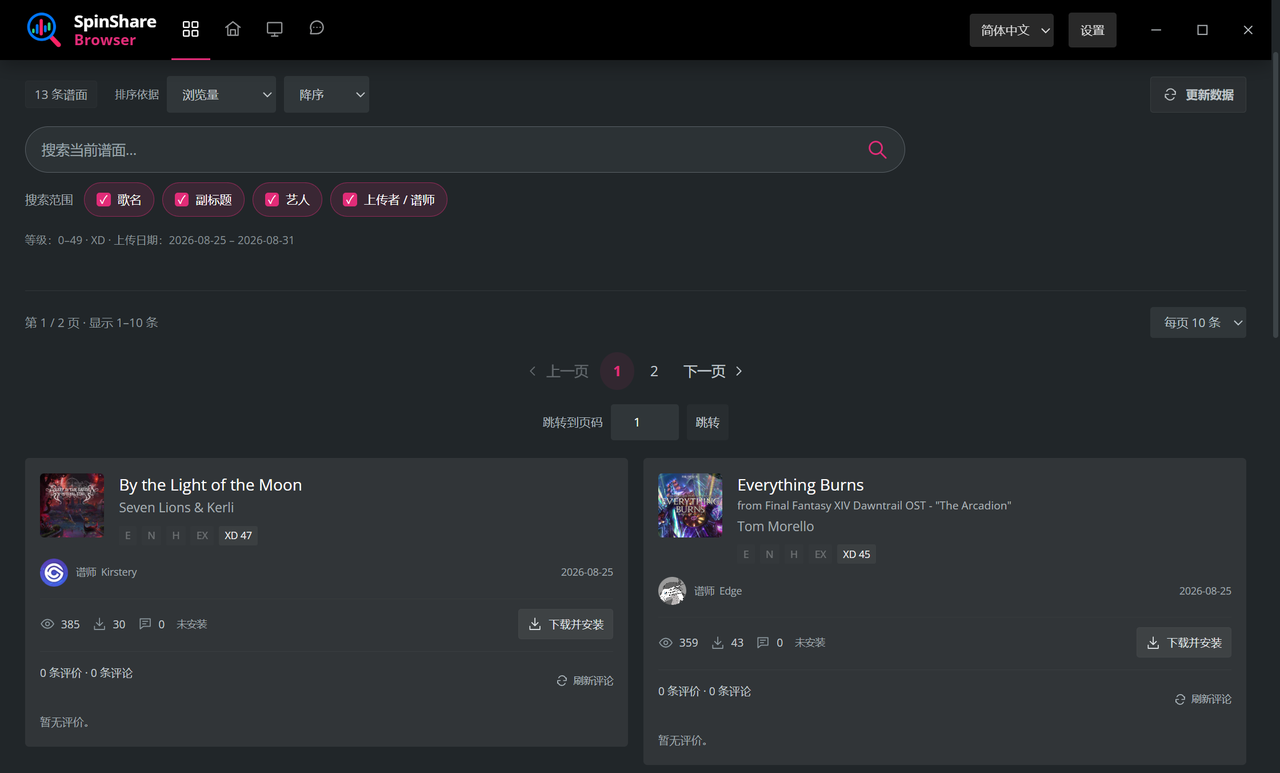
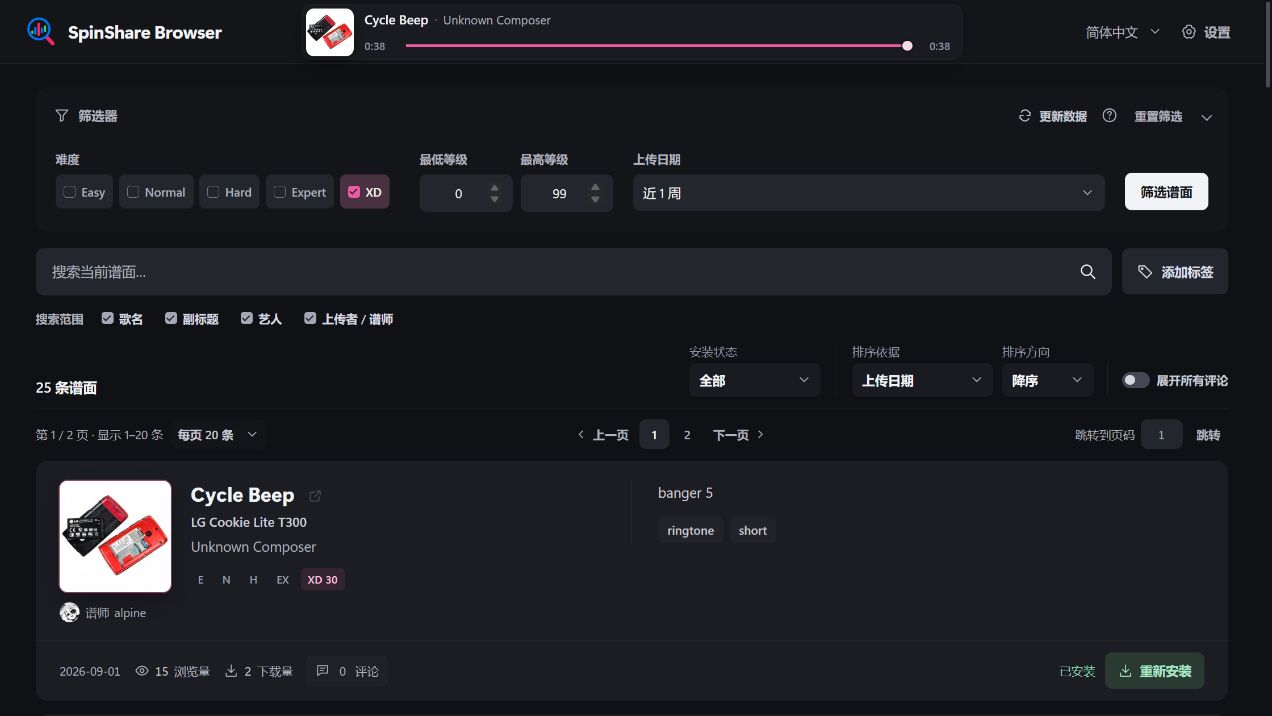
docs: prepare 2.0.0 release

diff --git a/scripts/build.py b/scripts/build.py
@@ -20,7 +20,7 @@ VERSION = "2.0.0"
 SOURCE_DATE_EPOCH = "1788048000"
 WEB_FILES = ("web/index.html", "web/interface.css", "web/chart-card.js", "web/app.js", "web/locales.json")
 SOURCE_FILES = (
-    ".gitattributes", ".gitignore", "LICENSE", "README.md", "README.zh-CN.md",
+    ".gitattributes", ".gitignore", "LICENSE", "README.md", "README.zh-CN.md", "CHANGELOG.md",
     "PRODUCT.md", "DESIGN.md",
     "requirements-build.txt", "src/installer.py", "src/spinshare_portable.py",
     "src/desktop.py", "src/maintenance.py",

diff --git a/PRODUCT.md b/PRODUCT.md
@@ -16,7 +16,7 @@ web
 
 ## Operating Context
 
-Python 提供本地服务和下载安装功能，WebView2 承载 HTML/CSS/JavaScript 界面。现有中英文界面、窗口控制、设置和本地安全策略需要保留。用户在 2026-09-01 同意先实现一张代表性卡片及整页的可交互新界面，再审核后逐步替换；无需重新选择框架。
+Python 提供本地服务和下载安装功能，WebView2 承载 HTML/CSS/JavaScript 界面。2.0.0 已确立为当前正式产品基线；现有中英文界面、窗口控制、设置、本地安全策略和完整交互均在这套架构中继续维护，无需重新选择框架。
 
 ## Capabilities and Constraints
 
@@ -25,14 +25,15 @@ Python 提供本地服务和下载安装功能，WebView2 承载 HTML/CSS/JavaSc
 - 播放器采用谱面包中的完整歌曲音频和媒体实际时长，不做人为试听截断。顶栏播放器显示较大封面、歌名与艺人、当前时间、总时间和可拖动进度，不显示难度。已有曲目时，Space 全局切换播放 / 暂停，左右方向键分别后退 / 快进 5 秒；编辑输入及具有原生键盘行为的控件优先。没有当前曲目时不拦截这些按键，也不根据悬停谱面推断要播放的内容。首次点击播放时会显示一次性快捷键提示。空格确实改变播放状态时，顶栏封面短暂显示新的播放 / 暂停状态后自行淡出；等待、拒绝、重复键或其它没有实际改变媒体状态的情况不显示反馈，进度条也不因全局快捷键保留焦点框。
 - 界面不使用 HTML `title` 或等价的原生悬停小字提示。图标按钮和省略内容仍保留明确的可见状态与 `aria-label` / `aria-description`，不能用取消悬停提示为由删掉无障碍名称；用户明确要求的标签完整列表、评论和描述阅读浮层不属于原生 tooltip。
 - 音频地址只能由通过严格校验的 `fileReference` 拼接为 `https://spinshare.b-cdn.net/uploads/audio/{fileReference}_0.ogg` 或 `.mp3`，不得读取曲目详情、下载或其它计数接口。OGG 失败或 15 秒内未就绪时只回退一次 MP3；MP3 同样受 15 秒加载边界约束，失败后停在可重试状态，不能循环切换格式。
-- 筛选、文字搜索、标签、排序和翻页保留当前播放；全量目录更新若发现曲目、`fileReference` 或媒体版本身份已变化，则释放旧媒体。页面或宿主隐藏时暂停，恢复可见后不自动续播；退出与页面卸载时停止并释放音频、监听器和计时器。播放器与封面切换使用统一短动效，顶栏双封面槽位交叉淡化；减少运动偏好取消空间位移和缩放。
-- 全量目录及前台、后台状态持久保存在应用状态目录的 `charts-cache.json`，默认位于 `%LOCALAPPDATA%\SpinShareBrowser`，与程序安装目录和谱面目标目录独立，正常完全退出后保留。前台手动更新完成 DNS、TCP 与 TLS 连接后、发送目录请求前，必须先持久保存本次请求及十分钟冷却；写入失败不得联网。明确的 401／403 访问拒绝在安全回滚该记录后不占冷却；限流、服务器异常、等待响应超时、请求或正文中断、响应过大／无效及最终落盘失败均保留冷却，重开窗口或进程不能绕过。只有确认请求尚未到达服务器的连接阶段失败、本机预检失败，以及已成功回滚的访问拒绝允许立即重试。旧缓存格式没有失败成本分类，升级时必须保守迁移。新目录先原子落盘、成功后再发布；写失败不能以仅存在于内存的新数据冒充已保存目录。
-- 筛选、文字搜索、标签、排序和翻页严格读取本地目录，不因操作本身访问 SpinShare。没有本地目录或最近一次成功 `fetchedAt` 已超过 12 小时时，启动流程先执行一次自动同步；运行期间达到 12 小时也以单任务、低优先级在后台同步。自动通道不写前台十分钟冷却，使用独立持久退避（5 分钟、15 分钟、1 小时、6 小时）；退避只限制自动任务，用户在错误卡片中主动“重试”仍作为前台手动请求处理。前台冷却尚未结束时，自动任务不得成为绕过限制的后门。
-- 启动自动同步期间用中央聚焦卡片阻止进入旧状态，显示真实阶段和已接收数据量；成功后自动退场。失败但有旧目录时提供“重试”和“使用本地数据”，没有目录时提供“重试”和“退出”。运行期间的后台同步不改变当前筛选或阻塞本地操作；托盘且无前台窗口时，实际更新或失败使用不抢焦点的右下角轻提示，数据未变化则保持安静。手动“更新数据”保留十分钟规则，并在旁边解释 12 小时自动同步，因此多数情况下无需手动操作。
-- 更新失败必须区分网络不可达、访问拒绝、限流、服务器异常、请求／传输超时或中断、响应过大／无效与本地存储故障。只有能够确认几乎没有占用服务器资源的前台失败允许立即再次联网；请求已发送、可能到达服务器或已开始返回全量数据时，前台十分钟内只返回本地冷却。不能用空表或成功掩盖失败。取得新目录后失效相关派生缓存、重建结果与候选计数，目录更新本身不清空标签、关键词或其它搜索选择。
+- 筛选、文字搜索、标签、排序和翻页保留当前播放；谱面数据更新若发现曲目、`fileReference` 或媒体版本身份已变化，则释放旧媒体。页面或宿主隐藏时暂停，恢复可见后不自动续播；退出与页面卸载时停止并释放音频、监听器和计时器。播放器与封面切换使用统一短动效，顶栏双封面槽位交叉淡化；减少运动偏好取消空间位移和缩放。
+- 谱面数据及前台、后台状态持久保存在应用状态目录的 `charts-cache.json`，默认位于 `%LOCALAPPDATA%\SpinShareBrowser`，与程序安装目录和谱面目标目录独立，正常完全退出后保留。前台手动更新完成 DNS、TCP 与 TLS 连接后、发送谱面数据请求前，必须先持久保存本次请求及十分钟冷却；写入失败不得联网。明确的 401／403 访问拒绝在安全回滚该记录后不占冷却；限流、服务器异常、等待响应超时、请求或正文中断、响应过大／无效及最终落盘失败均保留冷却，重开窗口或进程不能绕过。只有确认请求尚未到达服务器的连接阶段失败、本机预检失败，以及已成功回滚的访问拒绝允许立即重试。旧缓存格式没有失败成本分类，升级时必须保守迁移。新谱面数据先原子落盘、成功后再发布；写失败不能以仅存在于内存的新数据冒充已保存数据。
+- 筛选、文字搜索、标签、排序和翻页严格读取本地谱面数据，不因操作本身访问 SpinShare。没有本地谱面数据或最近一次成功 `fetchedAt` 已超过 12 小时时，启动流程先执行一次自动同步；运行期间达到 12 小时也以单任务、低优先级在后台同步。自动通道不写前台十分钟冷却，使用独立持久退避（5 分钟、15 分钟、1 小时、6 小时）；退避只限制自动任务，用户在错误卡片中主动“重试”仍作为前台手动请求处理。前台冷却尚未结束时，自动任务不得成为绕过限制的后门。
+- 启动自动同步期间用中央聚焦卡片阻止进入旧状态，显示真实阶段和已接收数据量；成功后自动退场。失败但有旧谱面数据时提供“重试”和“使用本地数据”，没有本地谱面数据时提供“重试”和“退出”。运行期间的后台同步不改变当前筛选或阻塞本地操作；托盘且无前台窗口时，实际更新或失败使用不抢焦点的右下角轻提示，数据未变化则保持安静。手动“更新数据”保留十分钟规则，并在旁边解释 12 小时自动同步，因此多数情况下无需手动操作。
+- 更新失败必须区分网络不可达、访问拒绝、限流、服务器异常、请求／传输超时或中断、响应过大／无效与本地存储故障。只有能够确认几乎没有占用服务器资源的前台失败允许立即再次联网；请求已发送、可能到达服务器或已开始返回完整谱面数据时，前台十分钟内只返回本地冷却。不能用空表或成功掩盖失败。取得新谱面数据后失效相关派生缓存、重建结果与候选计数，谱面数据更新本身不清空标签、关键词或其它搜索选择。
+- 数据更新失败使用结构化卡片：标题先说明用户当前能做什么，再用“重试状态”“可重试时间”与“当前数据”等键值行呈现必要信息；不向用户暴露传输阶段、内部请求名称或服务器资源占用等实现措辞。所有问号帮助在鼠标悬停或键盘聚焦时出现，移开或失焦即消失，不依赖点击；浮层方向避开相邻操作，今后新增问号沿用同一规则。
 - 标签是独立筛选维度；改变其它条件不清空标签。首次筛选前，搜索和标签控件不可用。
 - 结果工具栏提供安装状态筛选，默认“全部”，可选“仅已安装”或“仅未安装”；首次有效筛选前不可用。它与难度、日期、关键词范围、AND 标签和排序组合，改变其中一项不重置其它项。
-- 安装状态筛选覆盖整个候选集合，不只处理当前页；通过本地 `/v1/installations/check` 核对，不新增远程全量刷新。未知或核对失败不能作为“未安装”，应保留明确的未确认状态和错误提示。
+- 安装状态筛选覆盖整个候选集合，不只处理当前页；通过本地 `/v1/installations/check` 核对，不新增服务器谱面数据更新。未知或核对失败不能作为“未安装”，应保留明确的未确认状态和错误提示。
 - 标签联想仅来自已有标签，忽略大小写；显示附加候选后剩余的结果数。
 - 回车和卡片标签点击均可附加标签；已有标签可删除。删除或清空不会跳回来源卡片。
 - 已选标签栏只有非空时显示，在搜索下方自然布局，滚动后吸顶；卡片点击附加保留飞行动效。
@@ -47,7 +48,7 @@ Python 提供本地服务和下载安装功能，WebView2 承载 HTML/CSS/JavaSc
 - 评论时间不再显示“· Europe/Berlin”等时区尾缀，但保留原有日期换算。
 - 保留下载队列、并发控制、安装状态、错误解释、目录选择和安装保护。
 - 用户首次提交谱面安装前，必须在专用确认卡片中看到完整的当前目录；“确认并继续”成功持久化后才允许下载，旁边的“修改目录”复用设置中的系统目录选择。关闭、按 Escape 或取消目录选择不能记忆确认或开始下载；修改目录后仍需针对最新设置版本确认。服务端同时拒绝未确认和旧目录版本的安装请求，确认跨重启保留，后续不重复提示。
-- 开发留在 codex 分支；用户审核前不合并 main。
+- 2.0.0 是当前正式产品与设计基线；后续行为、文案或视觉规则变更必须同步更新本文件与发布记录。
 - 应用只有谱面浏览这个主页面，不设常驻侧栏；官网、官方客户端和社区作为页脚补充链接。内容不足一屏时页脚必须落在应用可视底边，内容增长后随文档自然下移，不能固定悬浮或遮挡谱面。
 - 尚未查询、正在加载、查询失败、没有匹配结果或结果不超过一页时，不显示没有作用的上下分页；状态提示在筛选区与页脚之间的可用内容区域居中，避免成为悬在页面上半部的孤立文字。结果区不再显示重复的安装说明；无限显示模式只在结果上方保留紧凑的显示数量选择入口，以便切回分页。
 - 查询期间由结果舞台提供唯一的加载文字与旋转反馈；筛选区不重复显示加载消息，筛选按钮不旋转。难度、日期、重置和提交控件在请求完成前锁定，也不提供可反复触发请求与取消的取消按钮。接收数据的字节进度继续更新同一个中央状态。
@@ -68,11 +69,11 @@ Python 提供本地服务和下载安装功能，WebView2 承载 HTML/CSS/JavaSc
 - 保留搜索、标签、评论全文可达和安装能力；评论呈现按本次明确授权调整。
 - 把相关信息放在一起，让歌曲识别和安装操作容易找到。
 - 长内容可读、可达；评论收起只改变展示状态，不删减完整内容。
-- 渐进替换前台，复用后端，不为使用设计技能引入框架。
+- 维护现有前台与后端边界，不为视觉迭代引入新的前端框架。
 
-## Open Decisions
+## 2.0.0 Release Decisions
 
-本轮已明确授权持久目录缓存、12 小时自动同步、独立后台退避、前台“更新数据”十分钟冷却、启动聚焦卡片与托盘不打扰提示；长说明的半行渐隐预览与锚定原区域向下展开的浮动全文卡片、取消按评论数量排序、后台评论计数、逐卡与全局展开、无模式文字标识、无时区尾缀和独立安装状态筛选继续保留。整体视觉方案仍待用户审核；这些授权不代表最终视觉批准或允许合并 main。
+2.0.0 正式采用持久谱面数据缓存、12 小时自动同步、独立后台退避、前台“更新数据”十分钟冷却、启动聚焦卡片与托盘不打扰提示；长说明的半行渐隐预览与锚定原区域向下展开的浮动全文卡片、取消按评论数量排序、后台评论计数、逐卡与全局展开、无模式文字标识、无时区尾缀和独立安装状态筛选均构成当前发布基线。
 
 ## Superseded Decisions
 
@@ -80,4 +81,4 @@ Python 提供本地服务和下载安装功能，WebView2 承载 HTML/CSS/JavaSc
 - 先前的“数量按钮打开临时内嵌抽屉，开合高度动画推移下方卡片”方案，以及“临时展开 / 常驻展开”文字标识，均为 **superseded**。它们不能作为本轮实现依据；当前临时阅读使用不占页面布局的浮层，全局展开仍内嵌。
 - 先前收起时不请求评论、打开后才获得数量的实现已被 **superseded**；当前评论数量独立后台加载和缓存，未知或失败不能显示为 0。
 - 先前作者说明在卡片内滚动、通过脱离原区域的独立顶层浮层阅读全文，或在文档流内增高卡片并下推后续内容的方案已被 **superseded**；当前短说明完整显示，长说明用半行渐隐预览，并通过主动操作从原区域向下长成不改变页面布局的锚定浮动卡片，不以悬停打开。
-- 先前由筛选或“刷新列表”隐式决定是否联网的实现已被 **superseded**；当前所有筛选只读本地目录，超过 12 小时由独立自动通道同步，显式“更新数据”才进入前台十分钟规则。评论手动刷新的 60 秒倒计时不受此变化影响。\n
+- 先前由筛选或“刷新列表”隐式决定是否联网的实现已被 **superseded**；当前所有筛选只读本地谱面数据，超过 12 小时由独立自动通道同步，显式“更新数据”才进入前台十分钟规则。评论手动刷新的 60 秒倒计时不受此变化影响。

diff --git a/README.zh-CN.md b/README.zh-CN.md
@@ -6,6 +6,20 @@
 
 ![SpinShare Browser 谱面浏览界面](docs/images/overview-zh-CN.png)
 
+## 当前版本：2.0.0
+
+**发布于 2026 年 9 月 1 日**
+
+- 重新设计自适应谱面浏览界面，统一字体、信息密度、动效以及加载、空状态和页脚表现。
+- 筛选、搜索、标签、排序与安装状态均优先读取持久化的本地谱面数据，每 12 小时自动同步一次。
+- 全局播放器支持完整歌曲、封面播放控制、可拖动进度条以及 Space 和方向键快捷操作。
+- 作者说明与评论采用锚定浮层，不改变页面布局；浮层内滚动不会带动外页，评论数量始终可见。
+- 首次安装确认路径，下载并发有界，写入前完整校验；覆盖更新保留设置与本地已安装谱面。
+
+[查看完整的 2.0.0 更新日志](CHANGELOG.md)
+
+> SpinShare Browser 仅维护和提供最新稳定版，历史安装包不再提供下载；升级与问题支持均以最新版本为准。
+
 ## 功能
 
 - 按难度和上传日期筛选谱面。
@@ -26,6 +40,8 @@
 
 需要 **Windows 10 1903 或更高版本、Windows 11（x64）**，以及 **.NET Framework 4.8 或更高版本**。安装包包含 Python 和程序所需的库。
 
+安装包尚未进行代码签名，Windows 可能显示未知发布者或 SmartScreen 提示。请只从本仓库的最新 Release 下载，并使用随附的 `.sha256` 文件核对安装包。
+
 安装程序会复用已有的 **Microsoft Edge WebView2 Runtime 123.0.2420.47 或更高版本**。缺少或版本较旧时，通过随包附带的微软引导程序联网下载安装；下载失败可重试。需要离线安装时，请先安装微软 [Evergreen 独立运行时](https://learn.microsoft.com/en-us/microsoft-edge/webview2/concepts/distribution)。浏览 SpinShare 需要联网。WebView2 包含 Microsoft Defender SmartScreen，数据处理方式见[微软隐私声明](https://aka.ms/privacy)。
 
 ## 使用
@@ -38,15 +54,15 @@
 
 **安装会覆盖同名文件。** “已安装”表示本地谱面文件与列表中的版本一致。DLC 谱面在系统默认浏览器中打开 SpinShare 官网，完成授权和下载。
 
-每页可选 **10 条、20 条或 30 条**，也可跳转到指定页码；选择“不限制”后，向下滚动会分批显示更多谱面。筛选、文字、标签、排序和翻页始终读取本地目录，不会另发全量目录请求；目录更新本身也不清空这些搜索选择。
+每页可选 **10 条、20 条或 30 条**，也可跳转到指定页码；选择“不限制”后，向下滚动会分批显示更多谱面。筛选、文字、标签、排序和翻页始终读取本地谱面数据，不会另发全量谱面数据请求；更新谱面数据也不会清空这些搜索选择。
 
-结果工具栏中的安装状态默认“全部”；首次筛选完成后，可选“仅已安装”或“仅未安装”。它与难度、日期、关键词搜索范围、AND 标签和排序组合，改变一项不会重置其它项。筛选通过本地 `/v1/installations/check` 核对整个候选集合，而不只检查当前页，不会额外触发 SpinShare 全量刷新。状态未知或核对失败会保留为未确认，不会冒充“未安装”。
+结果工具栏中的安装状态默认“全部”；首次筛选完成后，可选“仅已安装”或“仅未安装”。它与难度、日期、关键词搜索范围、AND 标签和排序组合，改变一项不会重置其它项。筛选通过本地 `/v1/installations/check` 核对整个候选集合，而不只检查当前页，不会额外触发 SpinShare 全量谱面数据更新。状态未知或核对失败会保留为未确认，不会冒充“未安装”。
 
 点击“添加标签”选择候选，或输入完整标签后按回车；也可以点击谱面上的标签。标签不区分大小写，多个标签必须同时匹配，修改其它搜索条件不会清除它们。点击标签的 × 或“清空标签”取消限制。“重置筛选”也会清除标签。首次筛选前不能使用标签搜索。
 
 鼠标悬停或键盘聚焦谱面封面时会显示播放按钮，点击后由顶栏唯一的全局播放器播放该谱面的完整歌曲。歌名保留为可选择、复制的普通文本，旁边独立、低调的外链图标用于打开官网谱面页。顶栏播放器显示较大封面、歌名与艺人、当前和总时间及可拖动进度条，不显示难度标签。已有曲目时，Space 可全局切换播放 / 暂停，左右方向键分别后退 / 快进 5 秒；正在编辑或使用具有原生键盘行为的控件时让出快捷键。没有当前曲目时，这些按键保持原有行为，不会根据悬停谱面自动开始播放。首次点击播放时，程序会用一次性提示说明这些快捷键。
 
-播放器使用谱面包中的完整歌曲音频及媒体实际时长，不再人为截断为试听片段。程序只把严格校验后的 `fileReference` 拼接到固定的 SpinShare CDN 音频路径，播放不会访问曲目详情、下载或其它计数接口。播放器先尝试 OGG，失败后只回退一次 MP3，每种格式的加载上限为 15 秒。筛选、标签、排序和翻页会保留当前曲目；目录更新发现媒体身份变化时才清理。隐藏或最小化程序会暂停，恢复可见后不自动续播；完全退出时释放媒体。曲目切换使用统一短动效和双封面交叉淡化，减少运动偏好会取消空间位移和缩放。
+播放器使用谱面包中的完整歌曲音频及媒体实际时长，不再人为截断为试听片段。程序只把严格校验后的 `fileReference` 拼接到固定的 SpinShare CDN 音频路径，播放不会访问曲目详情、下载或其它计数接口。播放器先尝试 OGG，失败后只回退一次 MP3，每种格式的加载上限为 15 秒。筛选、标签、排序和翻页会保留当前曲目；谱面数据更新发现媒体身份变化时才清理。隐藏或最小化程序会暂停，恢复可见后不自动续播；完全退出时释放媒体。曲目切换使用统一短动效和双封面交叉淡化，减少运动偏好会取消空间位移和缩放。
 
 作者说明不参与搜索，也不在折叠预览中使用内嵌滚动条。短说明完整显示，原生链接可用，没有光晕或展开操作；长预览完整露出实际文字的半行，再用额外 3px 做末端渐隐，避免把半行主体遮淡得难以辨认。悬停、键盘聚焦或展开期间，文字与实体预览表面抬升 2px，背后呈现扩散柔光，外部命中区域保持不动。普通悬停没有亮色轮廓，键盘保留边缘焦点提示；减少运动时取消位移。绝不悬停自动展开：点击、Enter 或 Space 会让同一个说明面板保持卡片右侧原区域的顶部和左右锚点，向下长成浮动卡片。
 
@@ -62,21 +78,17 @@
 
 “展开所有评论”默认关闭；开启后完整评论内嵌于每张卡片，不随鼠标离开收起，关闭后恢复按需浮层。两种呈现仅用位置、背景和层级区分，不显示模式文字标识。评论全文始终可达，不截断。评论时间不再显示“· Europe/Berlin”等时区尾缀，日期换算保持不变。
 
-<!-- Superseded：先前临时内嵌抽屉通过高度动画推移后续卡片，并显示临时/常驻模式文字，数量在打开后才加载。上面的后台计数与浮层规则已覆盖旧方案；全局展开仍内嵌。 -->
+本地谱面数据及前台、后台更新时间保存在 `charts-cache.json`，默认位于 `%LOCALAPPDATA%\SpinShareBrowser`，与程序安装目录和谱面安装目录独立，正常完全退出后保留。没有本地谱面数据，或最近一次成功更新已超过 **12 小时**时，程序会自动同步：启动时以中央聚焦卡片显示真实阶段和已接收数据量，运行中则以低优先级在后台完成。筛选操作只读本地数据。
 
-全量目录及前台、后台更新时间保存在 `charts-cache.json`，默认位于 `%LOCALAPPDATA%\SpinShareBrowser`，与程序安装目录和谱面目录独立，正常完全退出后保留。没有本地目录，或最近一次成功更新已超过 **12 小时**时，程序会自动同步：启动时以中央聚焦卡片显示真实阶段和已接收数据量，运行中则以低优先级在后台完成。筛选操作只读本地数据。
+自动同步不占用前台手动更新的十分钟额度；自动失败采用独立的 5 分钟、15 分钟、1 小时、6 小时退避，但用户主动重试不受自动退避限制。手动“更新数据”仍遵守至少 **10 分钟**的前台冷却，失败和重启不能绕过。服务会在可能使用服务器资源的手动请求前保存冷却，新谱面数据先原子写入本地文件，再提供给界面。
 
-自动同步不占用前台手动更新的十分钟额度；自动失败采用独立的 5 分钟、15 分钟、1 小时、6 小时退避，但用户主动重试不受自动退避限制。手动“更新数据”仍遵守至少 **10 分钟**的前台冷却，失败和重启不能绕过。服务会在可能使用服务器资源的手动请求前保存冷却，新目录先原子写入本地文件，再提供给界面。
-
-启动同步失败但有旧目录时，可选择“重试”或“使用本地数据”；没有目录时可重试或退出。错误会区分网络、访问拒绝、限流、服务器、传输、数据格式和本地存储问题。托盘后台实际更新或失败时，右下角会出现不抢焦点的轻提示并柔和消失；数据没有变化时保持安静。自动目录查询仍使用搜索接口，不访问会增加浏览量的曲目详情页；手动打开官网链接仍遵循官网的计数规则。
-
-<!-- Superseded：先前由筛选或“刷新列表”隐式决定是否联网；当前筛选严格读取本地目录，12 小时自动同步与前台“更新数据”分别管理。评论手动刷新的 60 秒倒计时不受影响。 -->
+启动同步失败但有旧数据时，可选择“重试”或“使用本地数据”；没有本地谱面数据时可重试或退出。错误会区分网络、访问拒绝、限流、服务器、传输、数据格式和本地存储问题。托盘后台实际更新或失败时，右下角会出现不抢焦点的轻提示并柔和消失；数据没有变化时保持安静。自动同步使用搜索接口，不访问会增加浏览量的曲目详情页；手动打开官网链接仍遵循官网的计数规则。
 
 安装队列最多容纳 **128 项正在处理或等待的任务**，同时下载最多 **2 个谱面**，下载完成后依次校验和安装。下载与安装可以同时推进，但文件替换与回滚仍串行执行。预取数量有界，不会一次下载整个等待队列。ZIP 在写入临时文件时完成完整性校验，全部文件通过后才替换旧文件，避免重复解压。队列已满时会提示等待任务完成，不会提示修改安装目录。
 
 单个谱面使用一次官方下载请求，不对当前官网的 ZIP 接口重复分段请求。最终速度仍取决于官网生成 ZIP 的耗时、网络和磁盘，不能保证所有环境下都达到带宽上限。
 
-关闭窗口时会询问“完全退出”或“最小化到系统托盘”。勾选“记住我的选择”后保存偏好，也可在设置中更改。托盘常驻时，超过 12 小时的目录会在不抢焦点、不并发重试的后台任务中同步；全屏、省电或按流量计费环境会延后。设置和托盘中的“完全退出”会退出程序；下载或安装期间可选择等待当前任务完成后退出。
+关闭窗口时会询问“完全退出”或“最小化到系统托盘”。勾选“记住我的选择”后保存偏好，也可在设置中更改。托盘常驻时，本地谱面数据超过 12 小时未更新会在不抢焦点、不并发重试的后台任务中同步；全屏、省电或按流量计费环境会延后。设置和托盘中的“完全退出”会退出程序；下载或安装期间可选择等待当前任务完成后退出。
 
 语言、谱面目录、关闭偏好、窗口大小或最大化状态会自动保存。首次启动以最大化窗口打开。
 
@@ -92,4 +104,4 @@
 
 [从源码构建](docs/build.zh-CN.md)
 
-<sub>Developed by Liu Yishou</sub>\n
+<sub>Developed by Liu Yishou</sub>

diff --git a/CHANGELOG.md b/CHANGELOG.md
@@ -1,0 +1,81 @@
+# Changelog
+
+SpinShare Browser maintains and distributes only the latest stable release. Historical installers are unavailable; install the current release to receive updates and support.
+
+SpinShare Browser 仅维护和提供最新稳定版，历史安装包不再提供下载；请安装当前版本以获得更新与问题支持。
+
+## 2.0.0 — 2026-09-01
+
+Version 2.0.0 is a major update to browsing, playback, data synchronization, comments, and installation reliability.
+
+### English
+
+#### Interface and chart browsing
+
+- Rebuilt the Windows interface with a responsive, high-density layout, clearer typography, consistent focus treatment, refined motion, and cohesive loading, empty, pagination, and footer states.
+- Added local-first keyword search, tag combinations, sorting, date and difficulty filters, and views for all, installed, or uninstalled charts.
+- Improved chart cards with larger covers, selectable song titles, a separate official-page link, concise metadata, and anchored author-note previews.
+
+#### Full-song player
+
+- Added one global header player for complete chart audio, with cover controls, song and artist information, elapsed and total time, and a draggable progress bar.
+- Added Space to pause or resume and Left / Right to seek by 5 seconds when those keys do not belong to an editor or another native control.
+- Added robust OGG playback with one MP3 fallback, bounded loading time, state preservation across local browsing operations, and clear playback feedback.
+
+#### Descriptions, reviews, and focus
+
+- Long author notes now grow downward from their original region into an anchored floating card, then shrink back along the same path without moving surrounding charts.
+- Review counts load independently in the background and remain visible. Zero-count controls cannot expand; unknown counts are never presented as zero.
+- Added focused floating review panels with contained wheel scrolling, responsive placement, click-again and Escape dismissal, and a shared 60-second manual refresh interval.
+
+#### Local data and synchronization
+
+- Persisted the full chart catalog locally so filtering, search, tags, sorting, installation status, and paging do not require another full server request.
+- Added automatic synchronization when local data is missing or more than 12 hours old, plus a separate foreground update action with a restart-resistant 10-minute interval.
+- Added classified network, access, rate-limit, server, transfer, response, and local-storage errors; automatic retries use backoff, while eligible explicit retries remain available.
+- Added startup synchronization focus panels and compact, no-focus tray notices for background completion or failure.
+
+#### Installation and reliability
+
+- Added a one-time folder confirmation before the first chart installation, with the same directory picker used by Settings.
+- Added a bounded 128-task queue, up to two concurrent downloads, serialized installation, complete ZIP validation, staged replacement, and rollback safeguards.
+- The installer now presents existing installations as an overwrite update. Program files are replaced while settings and locally installed charts remain unchanged.
+- Updated the packaged Windows runtime, compatibility checks, local cache handling, keyboard behavior, and automated coverage for the 2.0.0 release.
+
+---
+
+2.0.0 是一次覆盖浏览、播放、数据同步、评论与安装可靠性的大版本更新。
+
+### 简体中文
+
+#### 界面与谱面浏览
+
+- 重新设计 Windows 界面，采用自适应高密度布局，统一字体、焦点反馈与动效，并整理加载、空状态、分页和页脚表现。
+- 新增本地优先的关键词搜索、标签组合、排序、日期与难度筛选，以及全部、仅已安装和仅未安装三种视图。
+- 优化谱面卡片，使用更大封面、可选择复制的歌名、独立官网入口、紧凑元数据和锚定式作者说明预览。
+
+#### 完整歌曲播放器
+
+- 新增顶栏全局播放器，播放谱面的完整歌曲，显示封面、歌名、艺人、当前与总时间，并提供可拖动进度条。
+- 当编辑器或原生控件不占用按键时，Space 可暂停或继续，左右方向键可后退或快进 5 秒。
+- 完善 OGG 播放与单次 MP3 回退、加载超时、浏览状态保留和播放反馈。
+
+#### 作者说明、评论与聚焦体验
+
+- 较长的作者说明从原区域向下扩展为锚定浮动卡片，收起时沿同一路径缩回，不推移周围谱面。
+- 评论数量在后台独立加载并始终可见；零评论按钮无法展开，未知状态不会显示成 0。
+- 新增聚焦式评论浮层、浮层内独立滚动、自适应定位、再次点击或 Escape 收起，以及所有谱面共用的 60 秒手动更新间隔。
+
+#### 本地谱面数据与同步
+
+- 将完整谱面数据持久保存在本地，筛选、搜索、标签、排序、安装状态和翻页不会再次请求服务器全量数据。
+- 本地谱面数据不存在或超过 12 小时未更新时自动同步；前台手动更新独立使用重启后仍有效的 10 分钟间隔。
+- 区分网络、访问拒绝、限流、服务器、传输、响应和本地存储错误；自动重试采用退避，符合条件的主动重试仍可立即执行。
+- 新增启动同步聚焦卡片，以及后台同步完成或失败时不抢焦点的紧凑托盘提示。
+
+#### 安装与可靠性
+
+- 首次安装谱面前新增一次目录确认，并复用设置中的目录选择器。
+- 新增最多 128 项任务的有界队列、最多两个并发下载、串行安装、完整 ZIP 校验、暂存替换与回滚保护。
+- 安装程序会将现有安装明确呈现为覆盖更新：替换程序文件，同时保留设置和本地已安装谱面。
+- 更新 Windows 打包运行环境、兼容性检查、本地缓存处理、键盘交互和 2.0.0 自动化测试覆盖。

diff --git a/README.md b/README.md
@@ -6,6 +6,20 @@ A third-party Windows app for browsing and installing [SpinShare](https://spinsh
 
 ![Browsing charts in SpinShare Browser](docs/images/overview-en.png)
 
+## Current release: 2.0.0
+
+**Released September 1, 2026**
+
+- A redesigned, responsive chart browser with clearer typography, denser cards, refined motion, and cohesive loading, empty, and footer states.
+- Local-first filtering, search, tags, sorting, and installation-status views backed by a durable catalog with 12-hour automatic synchronization.
+- A single full-song player with cover controls, a draggable timeline, and Space and arrow-key shortcuts.
+- Anchored floating descriptions and review panels that preserve page layout, contain scrolling, and keep review counts available.
+- Safer installation with a first-use folder check, bounded concurrency, staged validation, and overwrite upgrades that preserve settings and installed charts.
+
+[Read the complete 2.0.0 changelog](CHANGELOG.md)
+
+> SpinShare Browser maintains and distributes only the latest stable release. Historical installers are unavailable; update to the latest release for continued support.
+
 ## Features
 
 - Filter by difficulty and upload date.
@@ -25,6 +39,8 @@ A third-party Windows app for browsing and installing [SpinShare](https://spinsh
 2. Run the installer and follow Setup. It installs for your Windows account, adds a Start Menu entry, and offers a desktop shortcut.
 
 Requires **Windows 10 version 1903 or later, or Windows 11 (x64)**, and **.NET Framework 4.8 or later**. Python and the app libraries are bundled.
+
+The installer is not code-signed, so Windows may show an unknown-publisher or SmartScreen warning. Download it only from this repository's latest Release and verify it with the provided `.sha256` file.
 
 Setup reuses an existing **Microsoft Edge WebView2 Runtime 123.0.2420.47 or later**. If the runtime is missing or older, the bundled Microsoft bootstrapper downloads and installs it. A failed download can be retried in Setup; for offline installation, install Microsoft's [Evergreen Standalone Runtime](https://learn.microsoft.com/en-us/microsoft-edge/webview2/concepts/distribution) first. Browsing SpinShare requires internet access. WebView2 includes Microsoft Defender SmartScreen; see [Microsoft's privacy statement](https://aka.ms/privacy).
 
@@ -62,15 +78,11 @@ Click a card's comment-count button to open its full reviews in a floating panel
 
 **Expand all reviews** is off by default. Turning it on displays full reviews inside each card and keeps them open when the pointer leaves; turning it off restores floating panels. Position, background and layering distinguish the two presentations, without mode labels. Review content remains fully accessible without truncation. Review timestamps omit timezone suffixes such as “· Europe/Berlin”; date conversion is unchanged.
 
-<!-- Superseded review behavior: temporary inline drawers used height animations that moved following cards, showed temporary/pinned mode labels, and loaded counts only when opened. The background counts and floating panels above replace those rules; the global expanded view remains inline. -->
-
 The full catalog and separate foreground/background refresh state are saved in `charts-cache.json`, normally under `%LOCALAPPDATA%\SpinShareBrowser`, independently of the program and chart installation folders. A normal quit keeps them. With no local catalog, or when the last successful update is more than **12 hours** old, the app synchronizes automatically. Startup shows a centered focus panel with the real transfer stage and bytes received; while the app remains open, the same work runs as one low-priority background task. Filtering itself remains local.
 
 Automatic synchronization does not consume the foreground manual-update interval. Automatic failures use their own persisted 5-minute, 15-minute, 1-hour, then 6-hour backoff, while an explicit user retry bypasses that automatic backoff. Manual **Update data** requests still reserve a persistent **10-minute** cooldown before a request that may use server resources. A confirmed 401/403 access rejection rolls it back; rate limits, server failures, waits, interruptions, timeouts, oversized or invalid responses, and failed final saves retain it across restarts.
 
 If startup synchronization fails with an old catalog, choose **Retry** or **Use local data**; with no catalog, retry or exit. Errors distinguish network, access, rate-limit, server, transfer, response, and local-storage failures. In the tray, a real update or failure uses a custom no-focus notice at the lower right and fades away; an unchanged catalog stays quiet. A new catalog invalidates derived caches while preserving search choices. Catalog synchronization uses the search API, not the view-counting song detail endpoint; manually opening a website link follows the site's counting rules.
-
-<!-- Superseded catalog behavior: filtering or Refresh list previously decided whether to contact the server. Filtering is now strictly local; 12-hour automatic synchronization and foreground Update data are managed separately. The 60-second manual review cooldown is unchanged. -->
 
 The install queue holds up to **128 active or waiting tasks**, with up to **2 chart downloads** at a time. Completed downloads are installed one at a time, allowing downloads to overlap installation while keeping file replacement and rollback serialized. Prefetching is bounded rather than downloading the entire waiting queue. ZIP integrity is checked while staging files, and every file must pass before existing files are replaced, avoiding duplicate decompression. A full queue asks you to wait for a task to finish, not to change the install folder.
 
@@ -92,4 +104,4 @@ Original code is licensed under [MIT](LICENSE). Third-party components and artwo
 
 [Build from source](docs/build.md)
 
-<sub>Developed by Liu Yishou</sub>\n
+<sub>Developed by Liu Yishou</sub>

diff --git a/docs/build.md b/docs/build.md
@@ -43,9 +43,33 @@ These tests use temporary directories and local fixtures without querying or dow
 
 ```powershell
 .\.venv\Scripts\python.exe -m unittest discover -s tests -p "test_*.py"
-node tests/test_tag_filters.cjs
-node tests/test_catalog_ui.cjs
-node tests/test_date_picker.cjs
-node tests/test_review_drawers.cjs
-node tests/test_installation_filters.cjs
+Get-ChildItem .\tests -Filter "test_*.cjs" | Sort-Object Name | ForEach-Object {
+    node $_.FullName
+    if ($LASTEXITCODE -ne 0) { throw "JavaScript test failed: $($_.Name)" }
+}
 ```
+
+## Final release verification
+
+Build once more after the final source and documentation changes. Verify that the installer matches its generated SHA-256 sidecar and that the source archive contains the release documentation and primary source files:
+
+```powershell
+$installer = "dist\SpinShareBrowser-2.0.0-windows-x64-setup.exe"
+$expected = ((Get-Content "$installer.sha256" -Raw).Trim() -split '\s+')[0].ToUpperInvariant()
+$actual = (Get-FileHash $installer -Algorithm SHA256).Hash
+if ($actual -ne $expected) { throw "Installer SHA-256 mismatch" }
+
+Add-Type -AssemblyName System.IO.Compression.FileSystem
+$archive = (Resolve-Path "dist\SpinShareBrowser-2.0.0-source.zip").Path
+$zip = [IO.Compression.ZipFile]::OpenRead($archive)
+try {
+    $entries = $zip.Entries.FullName
+    $required = "CHANGELOG.md", "README.md", "PRODUCT.md", "DESIGN.md", "src/spinshare_portable.py", "web/app.js"
+    $missing = $required | Where-Object { $_ -notin $entries }
+    if ($missing) { throw "Source archive is missing: $($missing -join ', ')" }
+} finally {
+    $zip.Dispose()
+}
+```
+
+Publish the installer, its `.sha256` sidecar, and the source archive from the same completed build.

diff --git a/docs/build.zh-CN.md b/docs/build.zh-CN.md
@@ -43,9 +43,33 @@ py -3.12 -m venv .venv
 
 ```powershell
 .\.venv\Scripts\python.exe -m unittest discover -s tests -p "test_*.py"
-node tests/test_tag_filters.cjs
-node tests/test_catalog_ui.cjs
-node tests/test_date_picker.cjs
-node tests/test_review_drawers.cjs
-node tests/test_installation_filters.cjs
+Get-ChildItem .\tests -Filter "test_*.cjs" | Sort-Object Name | ForEach-Object {
+    node $_.FullName
+    if ($LASTEXITCODE -ne 0) { throw "JavaScript test failed: $($_.Name)" }
+}
 ```
+
+## 最终发布校验
+
+源码和文档全部定稿后再执行一次构建。校验安装包与自动生成的 SHA-256 文件一致，并确认源码包包含发布文档和主要源码：
+
+```powershell
+$installer = "dist\SpinShareBrowser-2.0.0-windows-x64-setup.exe"
+$expected = ((Get-Content "$installer.sha256" -Raw).Trim() -split '\s+')[0].ToUpperInvariant()
+$actual = (Get-FileHash $installer -Algorithm SHA256).Hash
+if ($actual -ne $expected) { throw "Installer SHA-256 mismatch" }
+
+Add-Type -AssemblyName System.IO.Compression.FileSystem
+$archive = (Resolve-Path "dist\SpinShareBrowser-2.0.0-source.zip").Path
+$zip = [IO.Compression.ZipFile]::OpenRead($archive)
+try {
+    $entries = $zip.Entries.FullName
+    $required = "CHANGELOG.md", "README.md", "PRODUCT.md", "DESIGN.md", "src/spinshare_portable.py", "web/app.js"
+    $missing = $required | Where-Object { $_ -notin $entries }
+    if ($missing) { throw "Source archive is missing: $($missing -join ', ')" }
+} finally {
+    $zip.Dispose()
+}
+```
+
+安装包、`.sha256` 校验文件和源码包必须来自同一次最终构建，再一并发布。
